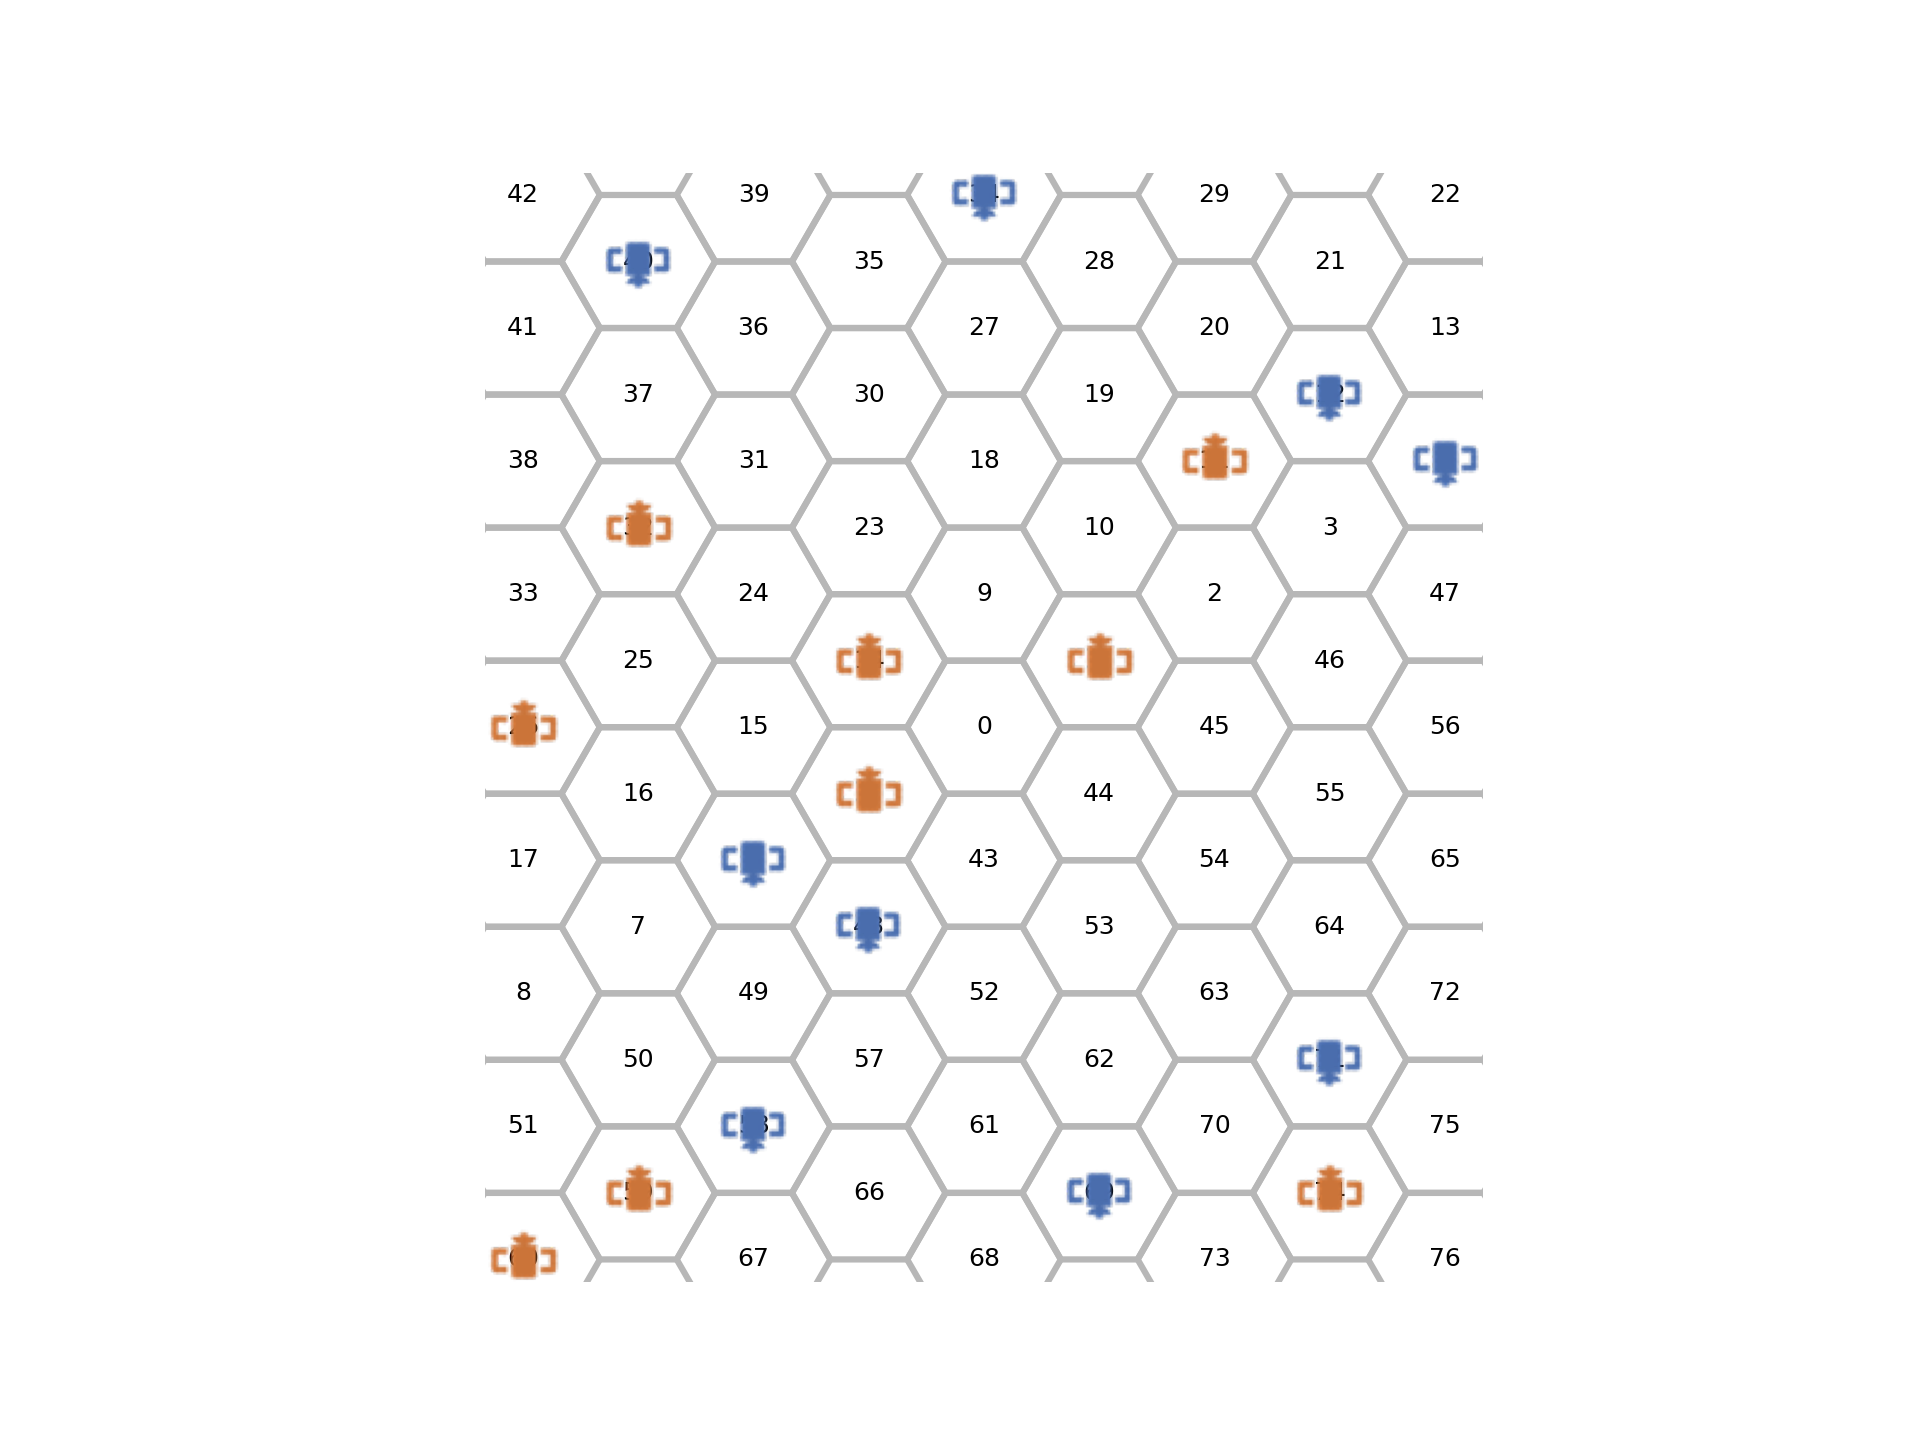
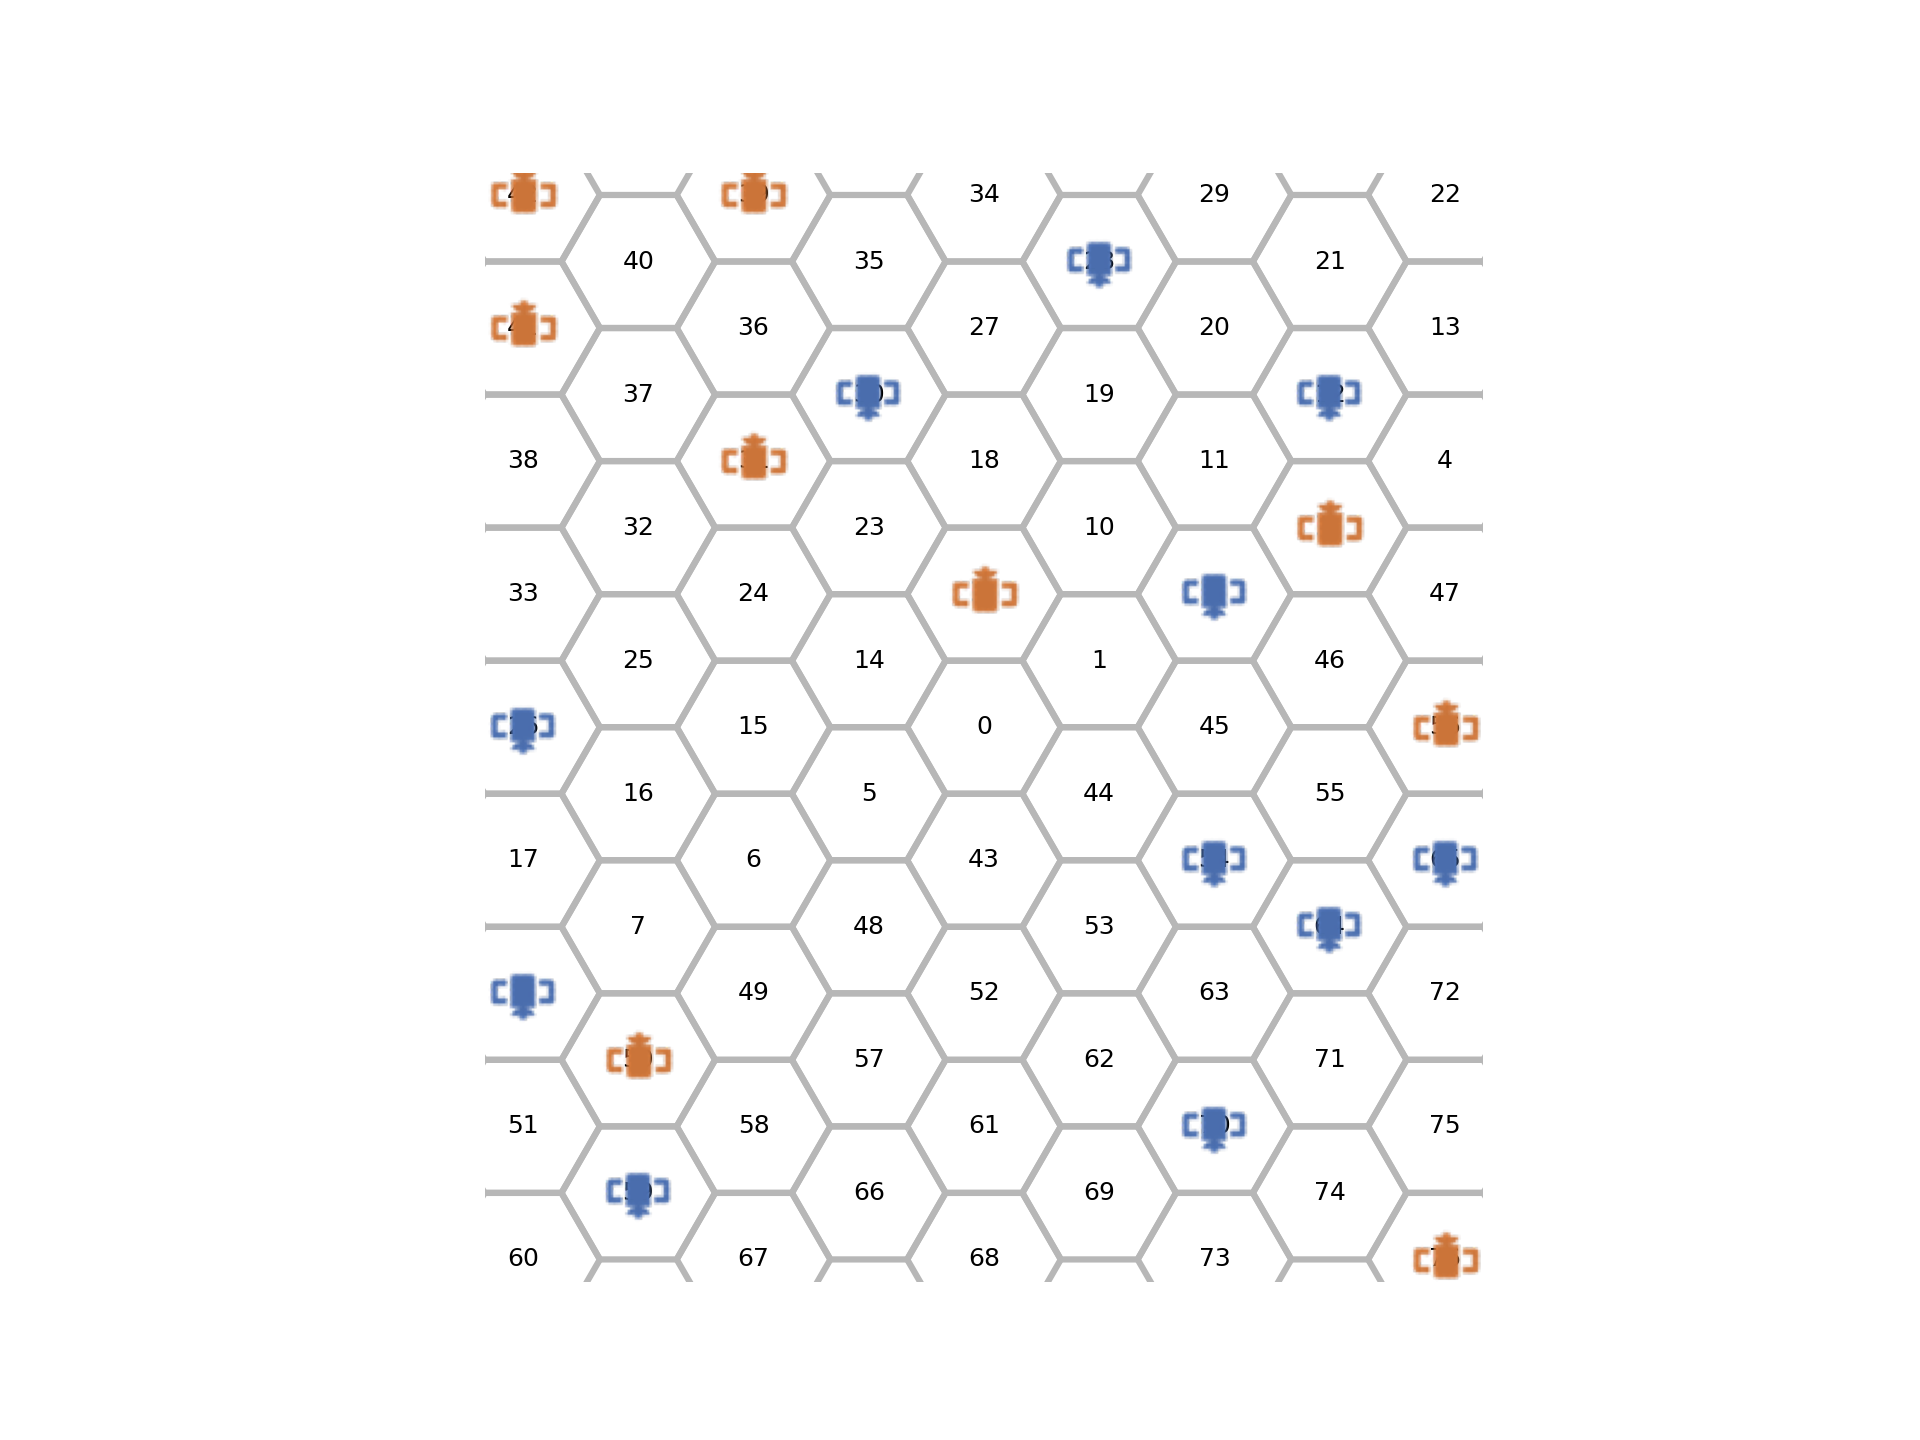
实现每一帧场景生成

diff --git a/confrontation_scenario_plot.py b/confrontation_scenario_plot.py
@@ -1,0 +1,107 @@
+import numpy as np
+import pandas as pd
+import matplotlib.pyplot as plt
+from PIL import Image
+from matplotlib.animation import FuncAnimation
+
+# 辅助函数，将matplotlib的figure对象转换为PIL的Image对象
+def fig2img(fig):
+    fig.canvas.draw()
+    buf = fig.canvas.buffer_rgba()
+    w,h = fig.canvas.get_width_height()
+    img = Image.frombytes("RGBA", (w,h), buf)
+    img = img.convert('RGB')
+    return img
+
+# 辅助函数，保存gif图片
+def save_gif(images, filename, duration):
+    frames = []
+    for img in images:
+        frames.append(img)
+    images[0].save(filename, format='GIF', append_images=frames[1:], save_all=True, duration=duration, loop=0)
+
+# 定义参数
+rc = 6
+dy = 2 * rc
+dx = rc * np.sqrt(3)
+A = np.pi / 3 * np.arange(1, 8)
+
+# 画图
+fig, ax = plt.subplots()
+ax.set_facecolor('w')  # 设置背景颜色为白色
+ax.set_xlim(-45, 45)  # 设置x轴范围
+ax.set_ylim(-50, 50)  # 设置y轴范围
+ax.set_aspect('equal')  # 设置坐标轴比例相等
+ax.axis('off')  # 关闭坐标轴
+
+# 读取图片
+sat_red_img = Image.open('sat_red.png')
+sat_red_img_arr = np.array(sat_red_img)
+sat_blue_img = Image.open('sat_blue.png')
+sat_blue_img_arr = np.array(sat_blue_img)
+
+# 卫星中心坐标比例
+sat_rate = 4
+
+# 用于存储已经绘制过的六边形中心坐标
+drawn_centers = set()
+
+# 读取Excel文件
+scaling_index = 200
+attrition_case1 = pd.read_excel('attrition_record.xlsx', sheet_name=0)
+x_d_case1 = np.round(attrition_case1.x_d / scaling_index)
+x_k_case1 = np.round(attrition_case1.x_k / scaling_index)
+y_d_case1 = np.round(attrition_case1.y_d / scaling_index)
+y_k_case1 = np.round(attrition_case1.y_k / scaling_index)
+
+# 动画完成需要的图片数
+animation_num = len(x_d_case1)
+
+# 初始化gif图片列表
+images = []
+
+for i in range(animation_num):
+    # 清除之前的图像
+    ax.clear()
+    ax.set_facecolor('w')  # 设置背景颜色为白色
+    ax.set_xlim(-45, 45)  # 设置x轴范围
+    ax.set_ylim(-50, 50)  # 设置y轴范围
+    ax.set_aspect('equal')  # 设置坐标轴比例相等
+    ax.axis('off')  # 关闭坐标轴
+
+    # 列出来要画红蓝方卫星的坐标点
+    drawn_centers_num = np.random.choice(range(0, len(drawn_centers)), (x_d_case1[i]+x_k_case1[i]+y_d_case1[i]+y_k_case1[i]), replace=False)
+    drawn_centers_x_d = drawn_centers_num[0 : x_d_case1[i]]  # 红方直瞄群坐标点
+    drawn_centers_x_k = drawn_centers_num[x_d_case1[i] : x_d_case1[i]+x_k_case1[i]]  # 红方动能群坐标点
+    drawn_centers_y_d = drawn_centers_num[x_d_case1[i]+x_k_case1[i] : x_d_case1[i]+x_k_case1[i]+y_d_case1[i]]  # 蓝方直瞄群坐标点
+    drawn_centers_y_k = drawn_centers_num[x_d_case1[i]+x_k_case1[i]+y_d_case1[i] : x_d_case1[i]+x_k_case1[i]+y_d_case1[i]+y_k_case1[i]]  # 蓝方动能群坐标点
+
+    # 在红方直瞄群坐标点上画卫星
+    for center_index in drawn_centers_x_d:
+        xp, yp = drawn_centers_list[center_index]
+        ax.imshow(sat_red_img_arr, extent=(xp-sat_rate, xp+sat_rate, yp-sat_rate, yp+sat_rate), zorder=3)
+
+    # 在红方动能群坐标点上画卫星
+    for center_index in drawn_centers_x_k:
+        xp, yp = drawn_centers_list[center_index]
+        ax.imshow(sat_red_img_arr, extent=(xp-sat_rate, xp+sat_rate, yp-sat_rate, yp+sat_rate), zorder=3)
+
+    # 在蓝方直瞄群坐标点上画卫星
+    for center_index in drawn_centers_y_d:
+        xp, yp = drawn_centers_list[center_index]
+        ax.imshow(sat_blue_img_arr, extent=(xp-sat_rate, xp+sat_rate, yp-sat_rate, yp+sat_rate), zorder=3)
+
+    # 在蓝方动能群坐标点上画卫星
+    for center_index in drawn_centers_y_k:
+        xp, yp = drawn_centers_list[center_index]
+        ax.imshow(sat_blue_img_arr, extent=(xp-sat_rate, xp+sat_rate, yp-sat_rate, yp+sat_rate), zorder=3)
+
+    # 保存每一帧
+    images.append(fig2img(fig))
+
+# 保存为gif
+save_gif(images, 'animation.gif', duration=0.2)
+
+# 显示图形
+plt.show()
+

diff --git a/hexagon_plot.py b/hexagon_plot.py
@@ -55,7 +55,6 @@ sat_rate = 4
 # 用于存储已经绘制过的六边形中心坐标
 drawn_centers = set()
 
-
 # ===================================== #
 #                 开始绘图               #
 # ===================================== #
@@ -79,6 +78,7 @@ for yk in np.concatenate((np.arange(0, 101, dy), np.arange(0, -101, -dy))):
             # 记录已绘制的六边形中心坐标
             drawn_centers.add(center)
             print(f'六边形中心坐标：{center}')
+ax.clear()
 # ===================================== #
 #                 绘图结束               #
 # ===================================== #
@@ -115,6 +115,35 @@ drawn_centers_y_d = drawn_centers_num[x_d_num0+x_k_num0 : x_d_num0+x_k_num0+y_d_
 drawn_centers_y_k = drawn_centers_num[x_d_num0+x_k_num0+y_d_num0 : x_d_num0+x_k_num0+y_d_num0+y_k_num0] # 蓝方动能群坐标点
 
 for scenario_num in range(0,animation_num):
+    # 画图
+    fig, ax = plt.subplots()
+    ax.set_facecolor('w')  # 设置背景颜色为白色
+    ax.set_xlim(-45, 45)  # 设置x轴范围
+    ax.set_ylim(-50, 50)  # 设置y轴范围
+    ax.set_aspect('equal')  # 设置坐标轴比例相等
+    ax.axis('off')  # 关闭坐标轴
+
+    # ===================================== #
+    #                 开始绘图               #
+    # ===================================== #
+    for yk in np.concatenate((np.arange(0, 101, dy), np.arange(0, -101, -dy))):
+        # 定义y=f(x)的直线方程
+        def yfun(x): return np.sqrt(3) * x / 3 + yk  
+        for xk in np.concatenate((np.arange(0, 101, dx), np.arange(0, -101, -dx))):
+            xp = xk
+            yp = yfun(xp)
+            
+            if center not in drawn_centers and -50 < xp < 50 and -50 < yp < 50:
+                T = (xp + 1j * yp) + rc * np.exp(1j * A) * 2 / np.sqrt(3)  # 将点(xp, yp)转换为复数形式，并进行变换
+                ax.plot(T.real, T.imag, color=[0.7176, 0.7176, 0.7176], linewidth=1.5)  # 绘制变换后的六边形
+
+
+    # ===================================== #
+    #                 绘图结束               #
+    # ===================================== #
+    # 将已绘制的中心坐标转换为列表
+    drawn_centers_list = list(drawn_centers)
+
     # 红蓝方卫星集群数量
     x_d_num = int(x_d_case1[scenario_num])
     x_k_num = int(x_k_case1[scenario_num])
@@ -148,14 +177,16 @@ for scenario_num in range(0,animation_num):
         ax.imshow(sat_blue_img_arr, extent=(xp-sat_rate, xp+sat_rate, yp-sat_rate, yp+sat_rate), zorder=3)
 
     # 保存图片
-    # savefig_str = './img/confronation_scenario_'+str(scenario_num)+'_.jpg'
-    # fig.savefig(savefig_str, dpi=300)
+    savefig_str = './img/confronation_scenario_'+str(scenario_num)+'.jpg'
+    fig.savefig(savefig_str, dpi=300)
 
     # 保存每一帧
     images.append(fig2img(fig))
+    ax.clear()
+    plt.close()
 
 # 保存为gif
-save_gif(images, 'animation.gif', duration=0.2)
+save_gif(images, './img/confrontation_scenario_changes.gif', duration=200) # 单位是毫秒 (ms)
 # ===================================== #
 #                 插入结束               #
 # ===================================== #
